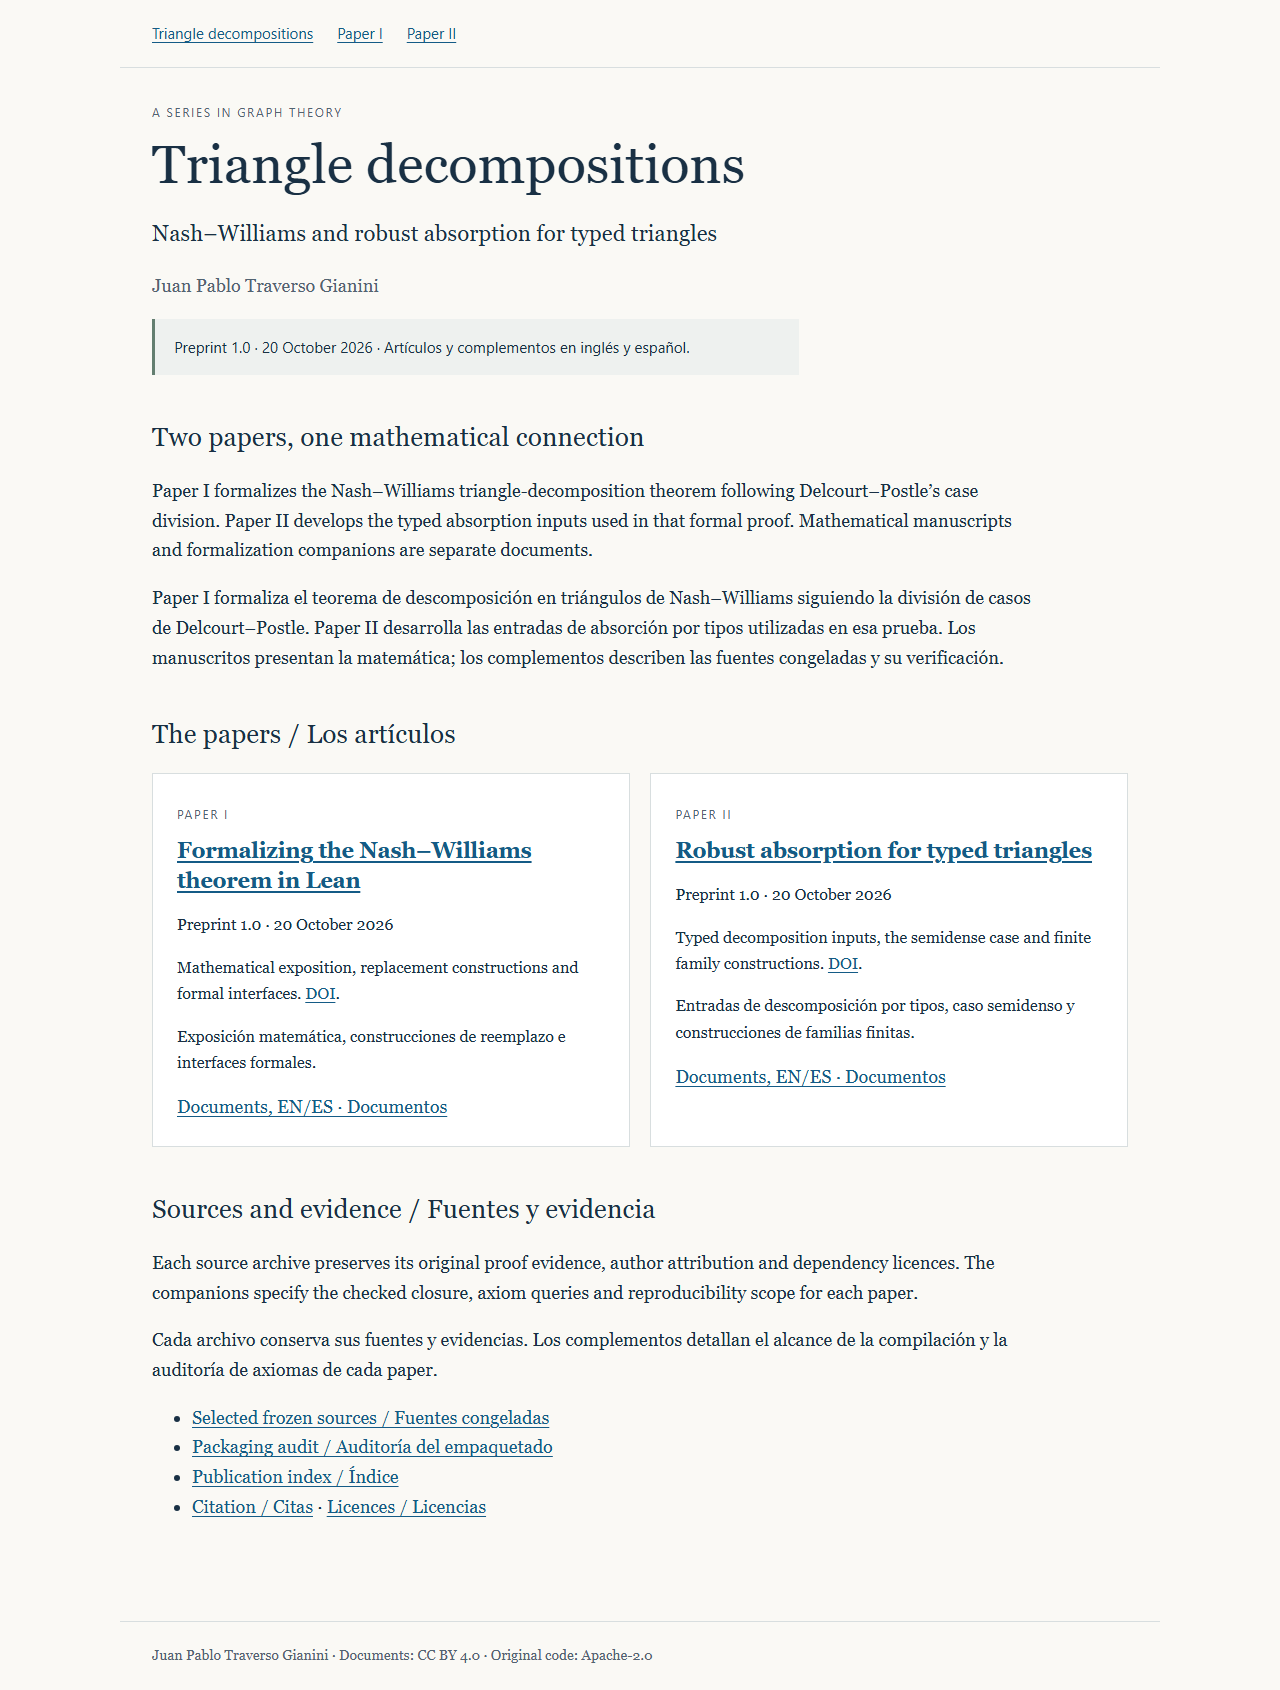
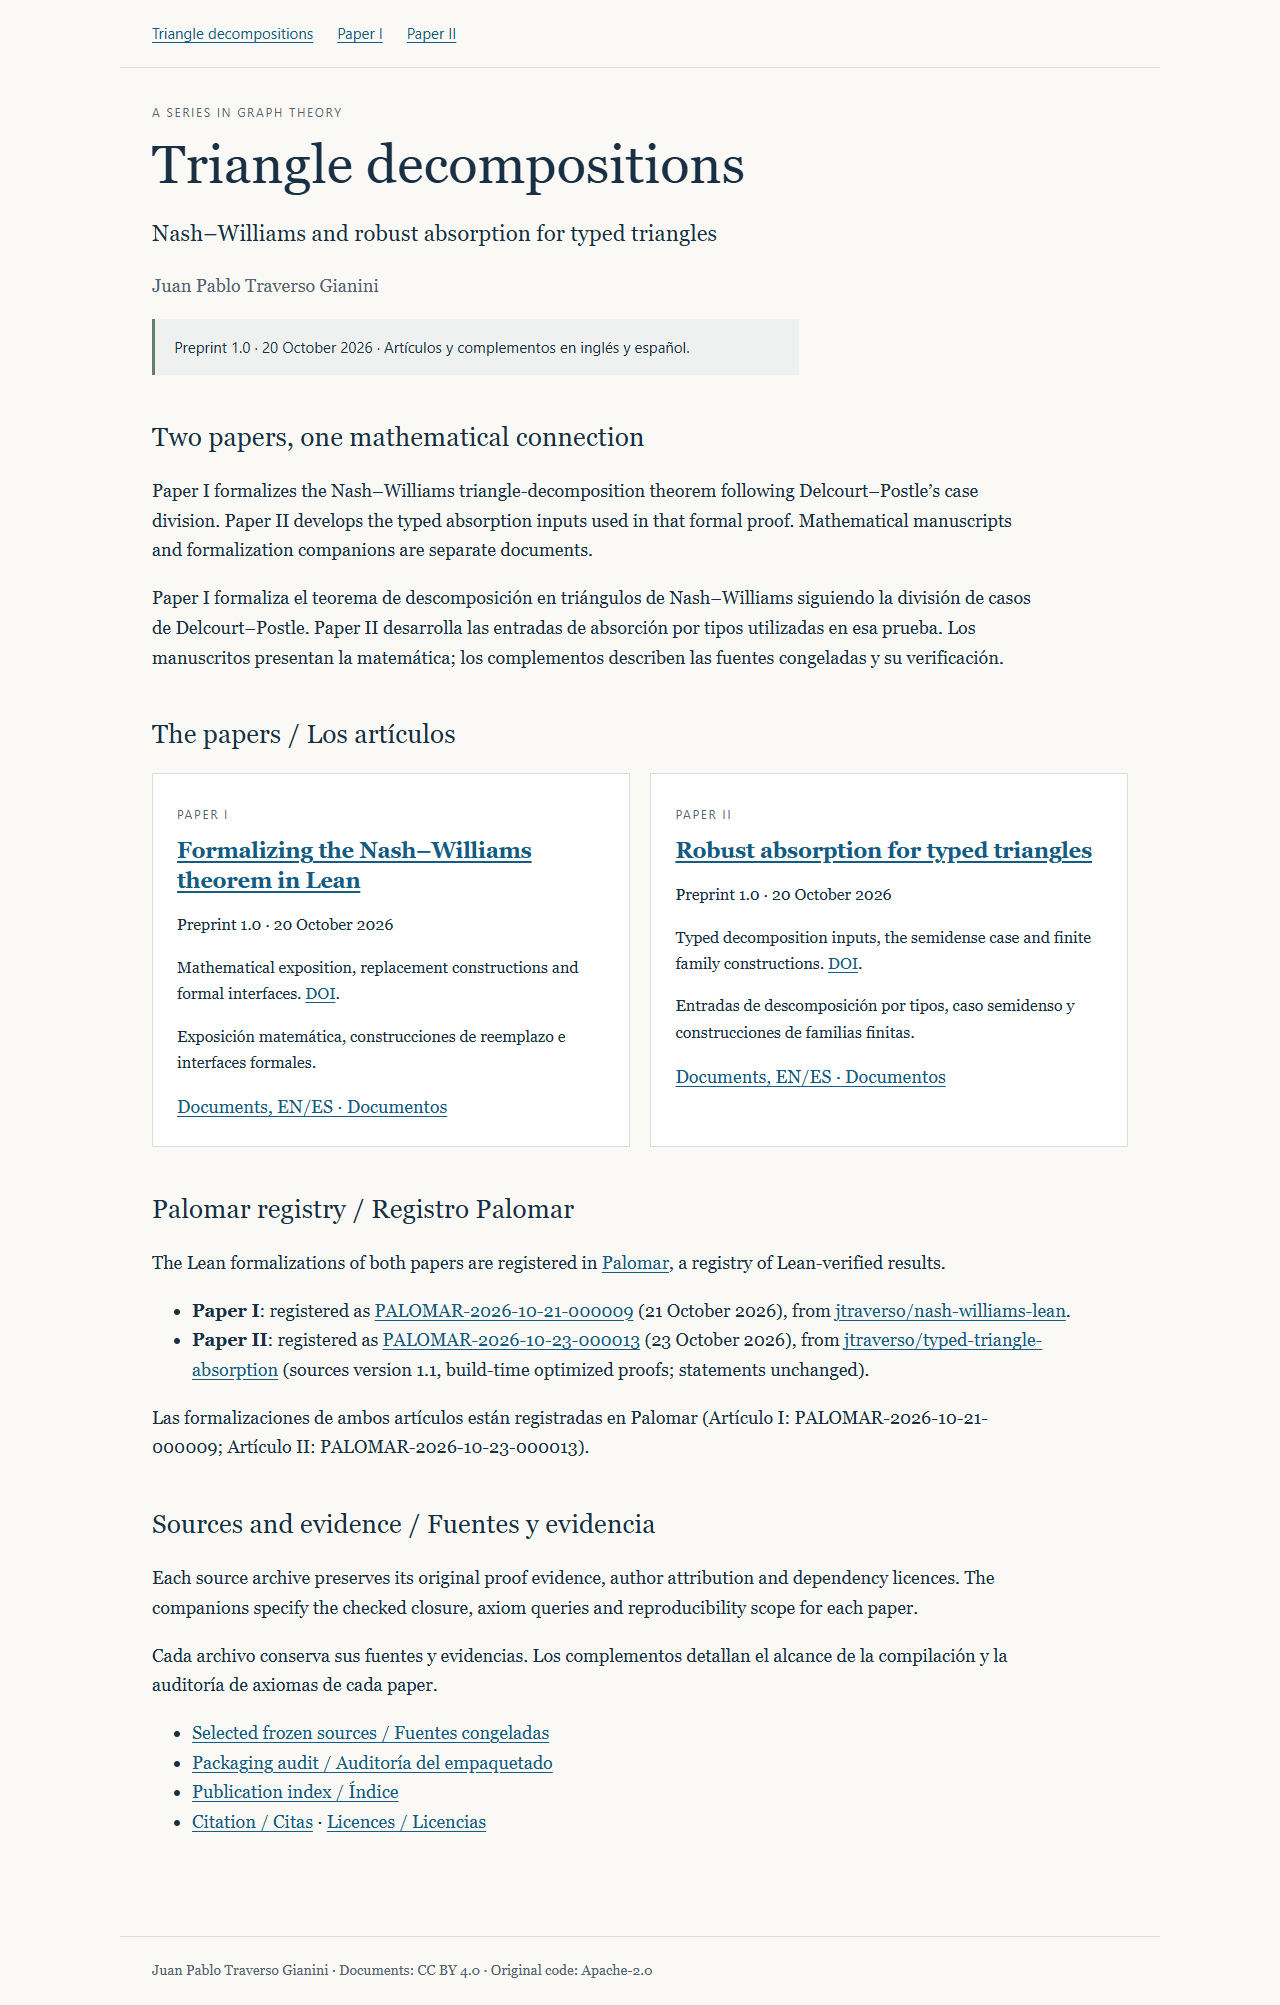
Refresh series-page visual evidence and integrity manifest

diff --git a/publication/VISUAL_REVIEW.md b/publication/VISUAL_REVIEW.md
@@ -1,11 +1,11 @@
 # Website visual review
 
-**PASS_VISUAL_PREPARATION — 20 October 2026.**
+**PASS_VISUAL_PREPARATION — 20 October 2026; series page rechecked 25 October 2026.**
 
-The series guide and the two paper pages were inspected in six full-page captures at desktop (1280 × 900 viewport) and mobile (390 × 844 viewport) sizes. The contact sheet was also inspected. Titles, bilingual document tables, DOI links and navigation are legible; the mobile layouts fit the viewport. Browser checks found no horizontal overflow or missing images.
+The series guide and the two paper pages were inspected in six full-page captures at desktop (1280 × 900 viewport) and mobile (390 × 844 viewport) sizes. After the Palomar registry entry was added to the series page, that page alone was recaptured and visually inspected on 25 October. The paper pages and their HTML/CSS inputs were unchanged, so their original captures remain valid. Titles, bilingual document tables, DOI links and navigation are legible; the mobile layouts fit the viewport. Browser checks found no horizontal overflow or missing images.
 
 The eight manuscript and companion PDFs are byte-identical to their separately audited editions (218 pages). Their render reviews and exact hashes are recorded under each paper's `02_validation` directory. Website review does not replace manuscript review.
 
-[Browser checks and screenshot hashes](web-qa/checks.json) bind the captures to the current HTML and CSS. [Contact sheet](web-qa/contact-review.jpg).
+[Browser checks and screenshot hashes](web-qa/checks.json) bind the captures to the current HTML and CSS. The [contact sheet](web-qa/contact-review.jpg) records the original 20 October review; the updated series-page captures are linked in the browser-check record.
 
 This is an internal AI-assisted visual review. It does not constitute external mathematical peer review. No website deployment was performed.
